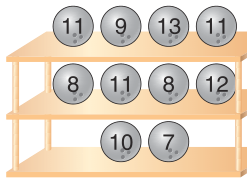
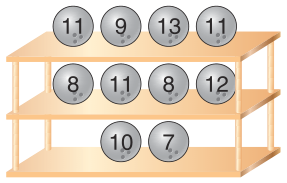
fix(그림): 「삼키지 마라」를 「없는 셈 쳐라」로 읽고 있었다 — 잘린 그림 2장을 고쳤다
`figure_rect` 에는 「칸 경계를 가로지르는 요소가 있으면 넓혀 삼키고, 못 삼키면
**오려내지 않는다**」는 불변식이 있다. 그런데 겹침이 `min_overlap`(12pt) 에 모자란
이미지는 후보에서 **아예 빠진다** — 후보가 아니면 그 불변식이 «가로질렀다»고
셀 수도 없다. 칸이 그것을 반으로 잘라도 조용히 통과한다.

이 파일은 같은 함정을 span 에 대해 이미 적어 두고 있었다:

  ⚠ **완비 검사(`span_rects`)에는 반드시 넣는다.** 「삼키지 마라」는
     「없는 셈 쳐라」가 아니다

그 문장이 이미지에는 안 걸려 있었다.

## 어떻게 드러났나 — 자동 검사가 아니라 **눈**

2026-08-19 넓힘 폴백 18건을 육안 검수하다 `019fd1d7-fe94` 가 걸렸다. 발문이
「**8개**의 공장」이고 정답이 `28`=C(8,2) 인데 오려낸 칸에는 공장이 다섯뿐이고
왼쪽 아래가 잘려 있었다. **본문 밖 근거(정답)** 로만 알 수 있었다.

## 기본을 켠 이유는 **재 봤기 때문**이다

새 가드는 「못 삼키면 안 오린다」이므로 회수를 줄일 수 있다. 그래서 켜기 전에 셌다:

  · 이미 성공한 332건 — 그대로 292 · 좌표 달라짐 **2** · **못 찾게 됨 0**
  · 못 찾던 것 — 가드 끔 40 · 켬 40 (얻지도 잃지도 않는다)

그리고 달라진 둘을 **눈으로 봤더니 둘 다 개선**이었다:

  · `019fd1d8-bc0e` 잘려 있던 **선반 오른쪽 기둥**이 들어왔다
  · `019fd1dc-36d2` 잘려 있던 **집**이 들어왔다

즉 이 가드는 비용이 0이면서 **이미 커밋된 그림 2장을 고친다.** 그 2장을 다시 오려
커밋한다 — 나머지 1,716장은 md5 그대로다.

`fe94` 는 가드가 칸을 넓혔지만 여전히 공장이 8개가 아니라 `REVIEWED_OUT` 유지.

diff --git a/scripts/figure/crop-rpm-from-pdf.py b/scripts/figure/crop-rpm-from-pdf.py
@@ -285,7 +285,8 @@ def figure_rect(page, box: fitz.Rect, stem_key: str = "",
                 min_overlap: float = 12.0,
                 avoid: list[fitz.Rect] | None = None,
                 thin_pt: float = 0.0,
-                furniture: set | None = None) -> fitz.Rect | None:
+                furniture: set | None = None,
+                clip_images: bool = True) -> fitz.Rect | None:
     """문항 사각형 **안에서 그림만** 골라 낸다.
 
     `source_coords` 는 문항 블록 전체(발문 + 그림)다. 그대로 오리면 발문이 지면에
@@ -313,6 +314,19 @@ def figure_rect(page, box: fitz.Rect, stem_key: str = "",
        (실측 `019fd1d5-988a`). 그래서 그 규칙은 여기서 안 쓴다.
 
     하나도 없으면 **오려내지 않는다** — 발문 사진을 붙이느니 안 붙이는 게 낫다.
+
+    ## `clip_images` — 「삼키지 마라」는 「없는 셈 쳐라」가 아니다 (2026-08-19)
+
+    겹침이 `min_overlap` 에 모자란 이미지는 후보에서 빠지는데, 그러면 **완비 검사가
+    «가로질렀다»고 셀 수도 없다.** 칸이 그것을 반으로 잘라도 조용히 통과한다.
+    실측 `019fd1d7-fe94`: 공장 8개 그림에서 아래쪽이 겹침 부족으로 빠졌고, 오려낸 칸은
+    다섯 개만 담은 채 왼쪽 아래가 잘렸다 — 정답 `28`=C(8,2) 가 8개를 요구해서
+    **사람 눈으로만** 드러났다.
+
+    그래서 그런 이미지도 `edges` 에 넣는다(덩어리로는 안 센다). **기본을 켠 이유는
+    재 봤기 때문이다**: 이미 성공한 332건 중 좌표가 달라진 것 2건 · **못 찾게 된 것 0건**
+    이고, 달라진 둘은 눈으로 보니 **둘 다 개선**이었다(`019fd1d8-bc0e` 는 잘렸던 선반
+    오른쪽 기둥이, `019fd1dc-36d2` 는 잘렸던 집이 들어왔다).
 
     ## `thin_pt` — **곧은 선은 `is_empty` 다** (2026-08-19)
 
@@ -414,6 +428,14 @@ def figure_rect(page, box: fitz.Rect, stem_key: str = "",
     # 구조적으로 못 본다 — 이미 잘려 있으니 경계를 «가로지르지» 않는다(실측: 원뿔이
     # 48pt 밖까지 뻗었는데 bleed 30 으로 잘려 있어 완비 검사가 초록이었다).
     core_raw: list[fitz.Rect] = []
+    # **덩어리로는 안 세지만 «자르지 마라»에는 넣는 이미지.** 겹침이 모자라 후보에서
+    # 빠진 것들이다 — 이 파일이 span 에 대해 이미 적은 문장이 여기도 그대로다:
+    # 「삼키지 마라」는 **「없는 셈 쳐라」가 아니다.** 후보가 아니면 완비 검사가
+    # «가로질렀다»고 셀 수도 없어서, 칸이 그것을 반으로 잘라도 조용히 통과한다.
+    # 실측(2026-08-19 `019fd1d7-fe94`): 공장 8개가 늘어선 그림에서 아래쪽 넷이
+    # 겹침 부족으로 빠졌고, 오려낸 칸은 다섯 개만 담은 채 왼쪽 아래가 잘렸다.
+    # 정답 `28`=C(8,2) 가 8개를 요구해서 **사람 눈으로만** 드러났다.
+    near_images: list[fitz.Rect] = []
 
     for b in raw.get("blocks", []):
         if b.get("type") == 0:
@@ -427,6 +449,10 @@ def figure_rect(page, box: fitz.Rect, stem_key: str = "",
         # ⚠ 상자가 **추정치**일 때는 이 문턱을 낮춰야 한다 — 발문으로 상자를 잡는
         #    `crop-pdf-by-stem.py` 는 그림이 상자 끝에 5pt 만 걸치는 일이 흔하다.
         if inter.is_empty or inter.width < min_overlap or inter.height < min_overlap:
+            # 덩어리로는 안 세되 **자르지는 못하게** 남긴다(위 주석). 상자에서 아주
+            # 먼 것은 남의 것이므로 `bleed` 에 걸친 것만 본다.
+            if not inter.is_empty and not (r & bleed).is_empty:
+                near_images.append(r)
             continue
         core.append(r & bleed)
         core_raw.append(r)
@@ -533,7 +559,7 @@ def figure_rect(page, box: fitz.Rect, stem_key: str = "",
     # 그림 라벨이 잘려도 못 잡는다 — 실측 `019fd1da-6321` 의 `3x-2y+12=0` 은 본문에도
     # 같은 식이 있어 발문으로 갈렸고, 그 바람에 꼬리 `0` 이 칸 밖에 남았다.
     # 삼킨 뒤 정말로 발문이 들어왔다면 아래 **발문 침입 검사**가 그 문항을 버린다.
-    edges = span_rects + core_raw
+    edges = span_rects + core_raw + (near_images if clip_images else [])
     for _ in range(LABEL_ROUNDS):
         grew = False
         for t in edges:
